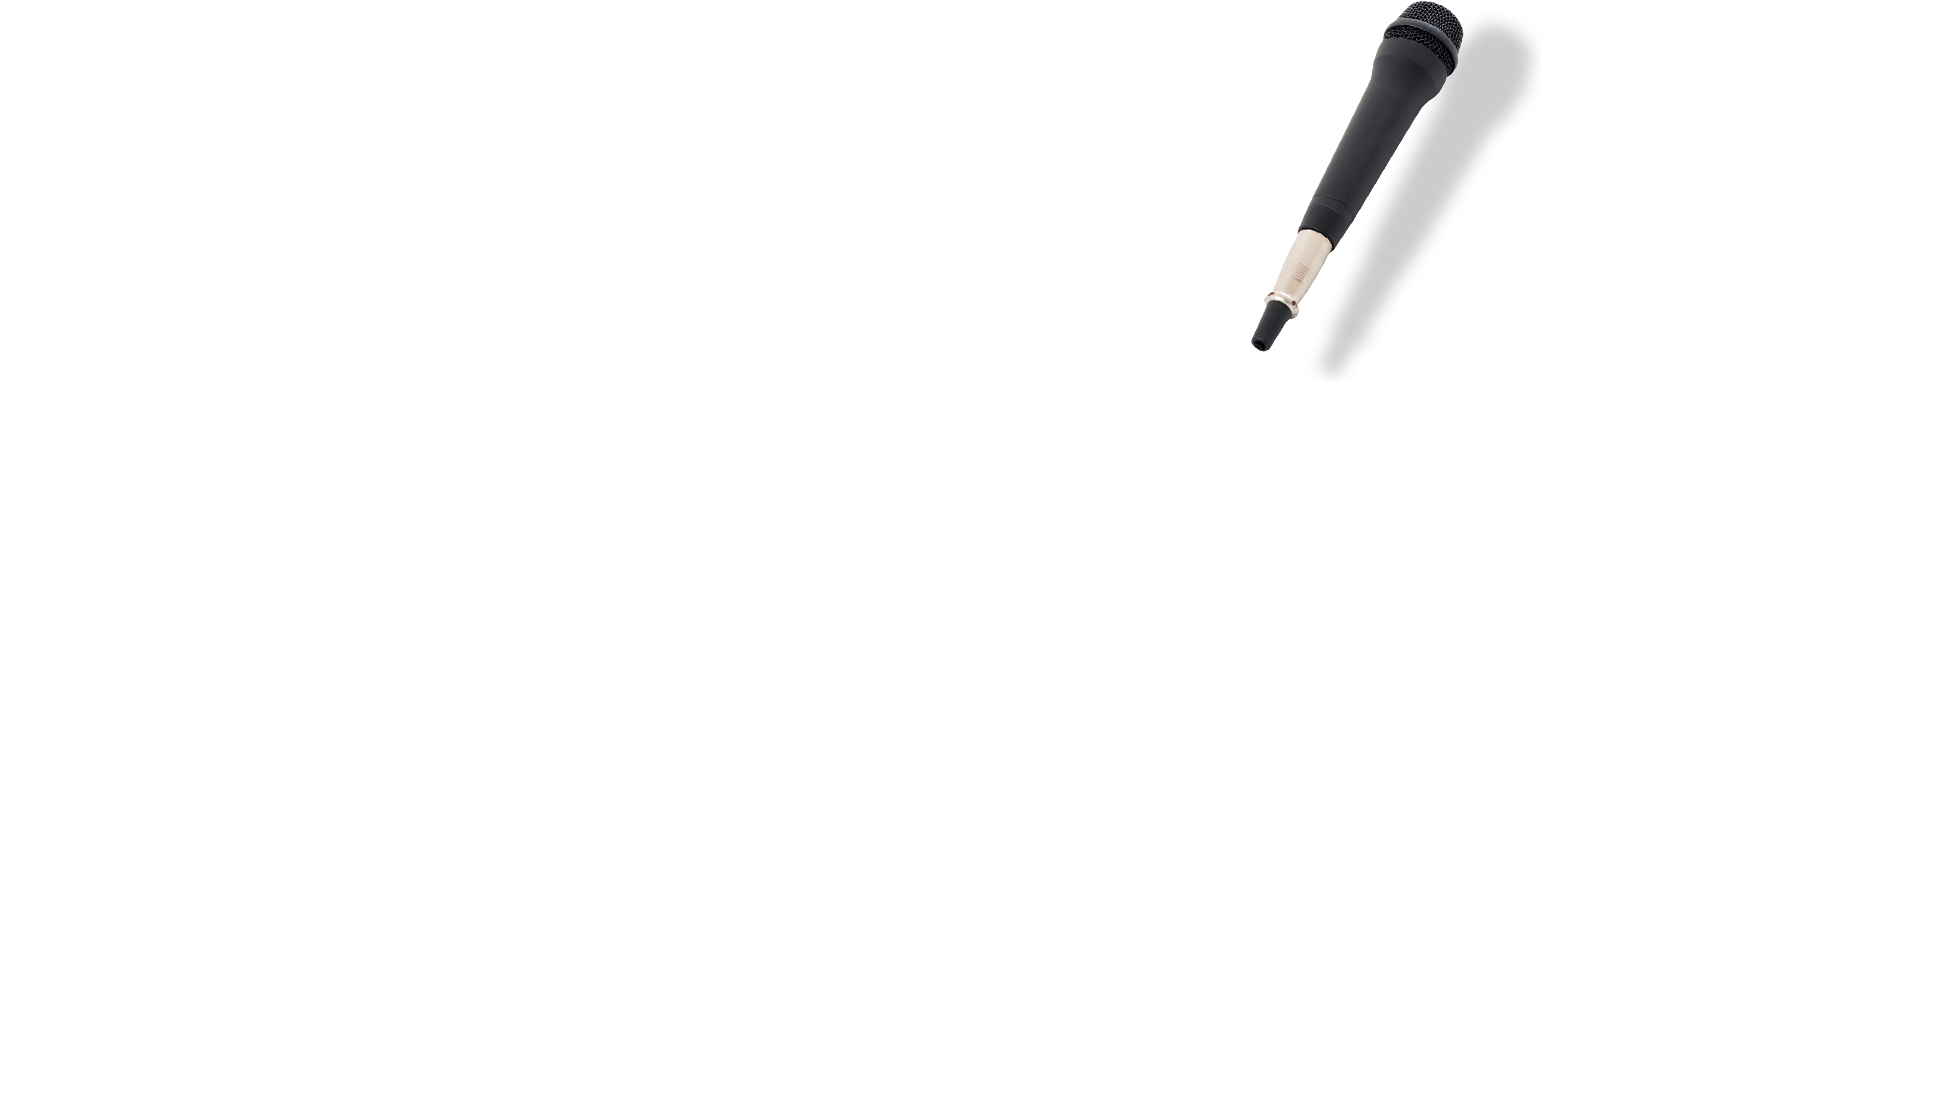
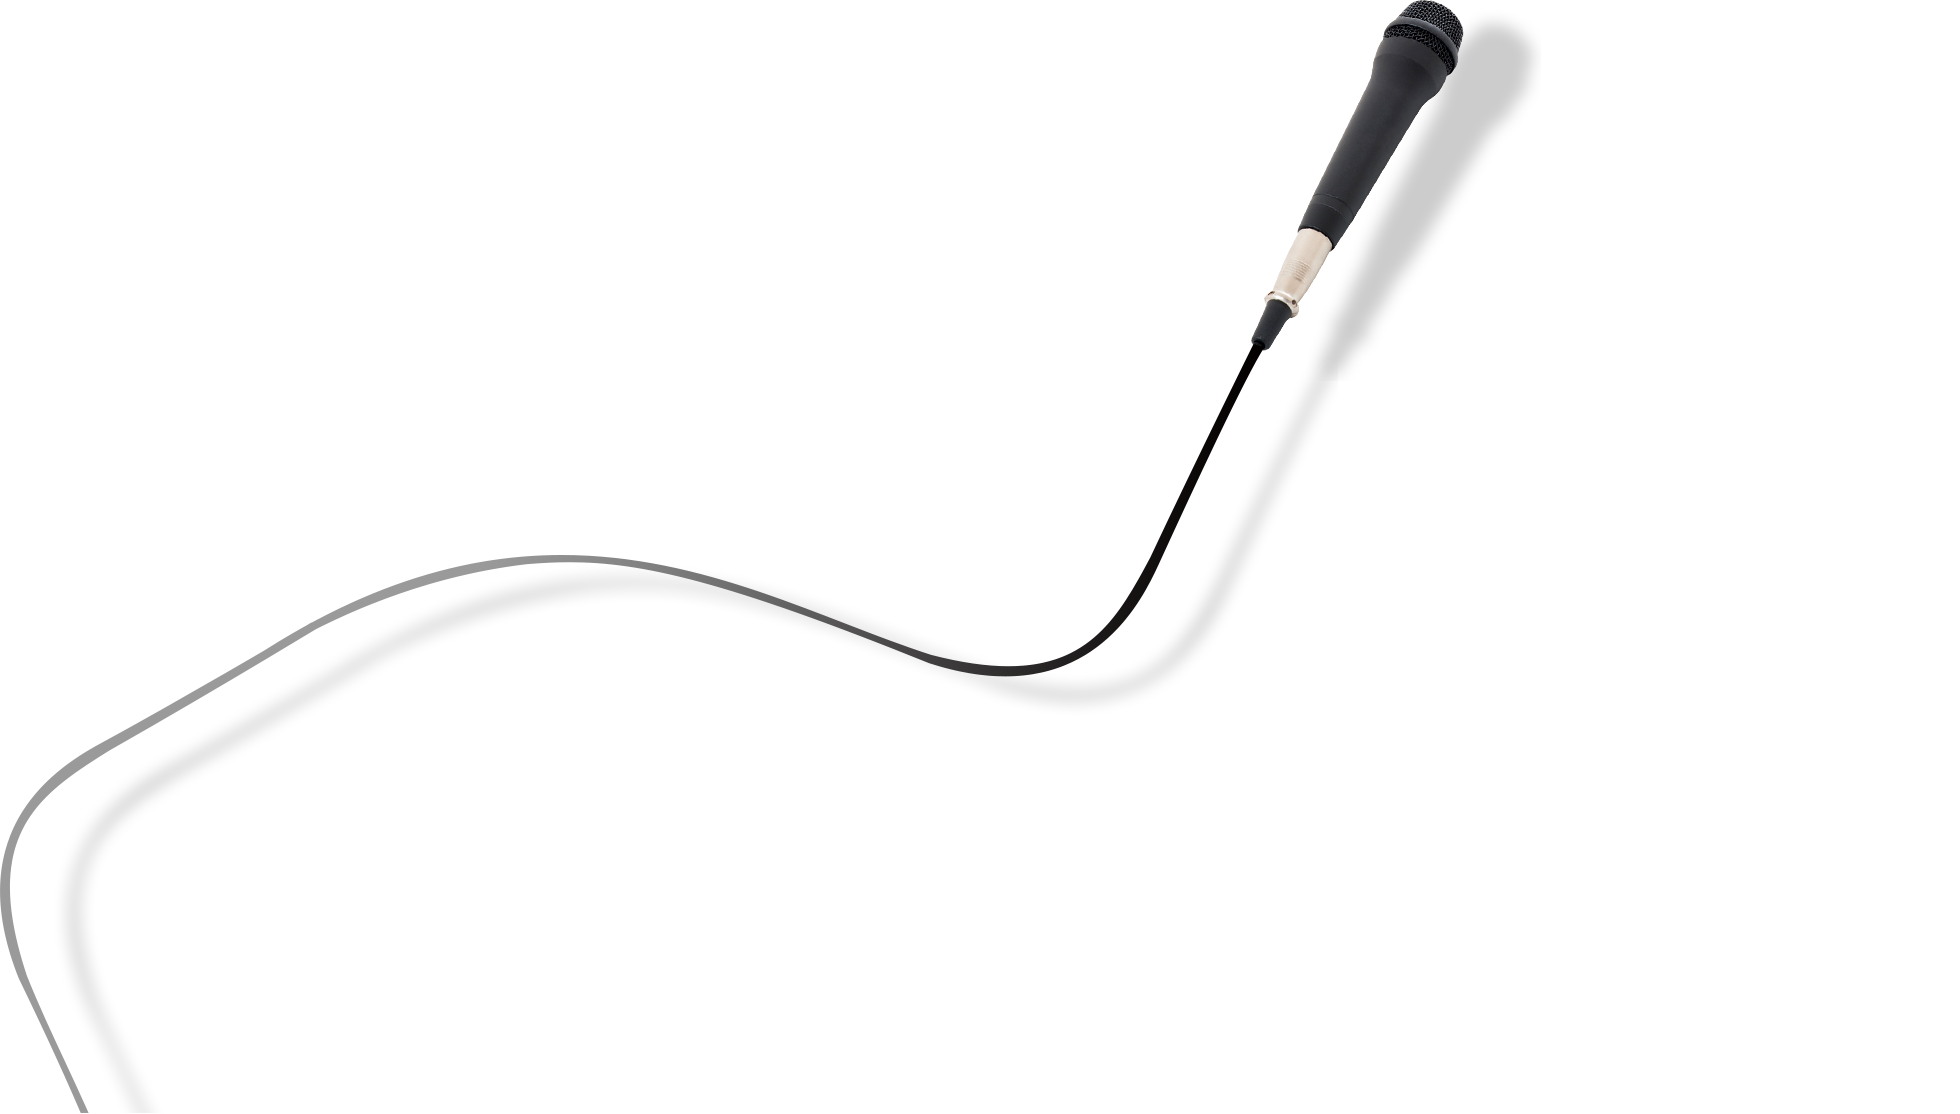
next / report

diff --git a/src/assets/namespace/Home/_Mic.css b/src/assets/namespace/Home/_Mic.css
@@ -24,17 +24,14 @@
   left: 0;
   width: 100%;
   height: 1114px;
-
-  overflow: hidden;
-
-  background: url('/assets/img/home/mic1.png') no-repeat center top;
+  overflow-x: hidden;
 
   /* 全体がちょっと上にあがるアニメーション */
   transition: all .6s ease;
   transform: translateY(-30px);
   opacity: 0;
   &.home-Mic_Animate {
-    transform: translateY(-71px);
+    transform: translateY(-82px);
     opacity: 1;
   }
 }
@@ -43,10 +40,10 @@
 .home-MicCode1 {
   position: absolute;
   top: 0;
-  right: calc(50% - 980px);
-  width: 620px;
+  right: calc(50% - 780px);
+  width: 710px;
   height: 1114px;
-  background: url('/assets/img/home/mic2.png') no-repeat right top;
+  background: url('/assets/img/home/mic1.png') no-repeat right top;
 
   transition: all .5s ease;
   @nest .home-Mic_Animate & {
@@ -58,10 +55,10 @@
 .home-MicCode2 {
   position: absolute;
   top: 0;
-  left: calc(50% - 980px);
+  left: calc(50% - 1180px);
   width: 0;
   height: 1114px;
-  background: url('/assets/img/home/mic3.png') no-repeat left top;
+  background: url('/assets/img/home/mic2.png') no-repeat left top;
   opacity: 0;
 
   transition: all .6s ease .6s;

diff --git a/src/assets/namespace/home/_Next.css b/src/assets/namespace/home/_Next.css
@@ -1,6 +1,5 @@
 .home-Next {
   display: flex;
-  flex-wrap:wrap;
   text-align: center;
   align-items: center;
 
@@ -9,12 +8,11 @@
   }
 
   & > * {
-    flex: 1;
-    @media (--sm-down) {
-      min-height: calc(100vw * 500 / 650);
-    }
+    width: 100%;
+    min-height: 290px;
+
     @media (--sm-up) {
-      min-height: 30vw;
+      max-width: 50%;
     }
   }
 }
@@ -22,10 +20,22 @@
 .home-Next_Body {
   color: var(--background-color);
   font-size: .95rem;
+  @media (--sm-up) {
+    font-size: .8rem;
+  }
+  @media (--lg-up) {
+    font-size: 1.2vw;
+  }
 }
 
 .home-Next_Heading.sw-Heading {
   font-size: 1.8rem;
+  font-weight: 200;
+  padding-top: 30px;
+
+  @media (--lg-up) {
+    font-size: 3vw;
+  }
 }
 
 .home-Next_DetailButton {
@@ -42,6 +52,10 @@
   letter-spacing: 2px;
   line-height: 1;
   margin-bottom: .3em;
+
+  @media (--lg-up) {
+    font-size: 4.3vw;
+  }
 }
 
 .home-Next_EyeCatch {
@@ -51,6 +65,7 @@
   position: relative;
   overflow: hidden;
   width: 100%;
+  height: 37.5vw;
 }
 
 .home-Next_EyeCatch:after {

diff --git a/src/assets/namespace/home/_Report.css b/src/assets/namespace/home/_Report.css
@@ -1,6 +1,5 @@
 .home-Report {
   display: flex;
-  flex-wrap:wrap;
   text-align: center;
   align-items: center;
 
@@ -10,11 +9,11 @@
   }
 
   & > * {
-    flex: 1;
     width: 100%;
-    min-height: calc(100vw * 500 / 650);
+    min-height: 290px;
+
     @media (--sm-up) {
-      min-height: 30vw;
+      max-width: 50%;
     }
   }
 }
@@ -22,16 +21,30 @@
 .home-Report_Body {
   color: var(--background-color);
   font-size: .95rem;
+  padding-top: 30px;
+
+  @media (--sm-up) {
+    padding-top: 0;
+  }
+  @media (--lg-up) {
+    font-size: 1.1vw;
+  }
 }
 
 .home-Report_Body .sw-Heading {
   font-size: 2.7rem;
+  padding-top: 30px;
+
+  @media (--lg-up) {
+    font-size: 3.8vw;
+  }
 }
 
 .home-Report_EyeCatch {
   position: relative;
   overflow: hidden;
   background-color: inherit;
+  height: 37.5vw;
 }
 
 .home-Report_EyeCatch img {

diff --git a/src/assets/js/util/DesignView.js b/src/assets/js/util/DesignView.js
@@ -5,7 +5,7 @@ export default () => {
     return false;
   }
 
-  $('body').toggleClass('home-DesignView', false);
+  $('body').toggleClass('home-DesignView', true);
 
   $(window).keydown((e) => {
     if (e.keyCode === 49) {

diff --git a/src/assets/namespace/home/_About.css b/src/assets/namespace/home/_About.css
@@ -1,7 +1,10 @@
 .home-About {
   text-align: center;
   position: relative;
-  padding-bottom: 180px;
+  padding-bottom: 140px;
+  @media (--sm-up) {
+    padding-bottom: 180px;
+  }
 
   &:before {
     content: '';

diff --git a/src/assets/js/Home/Mic.js b/src/assets/js/Home/Mic.js
@@ -2,7 +2,7 @@
 
 export default () => {
 
-  const mic_offset_top = $('.home-Mic').offset().top + 400;
+  const mic_offset_top = $('.home-Mic').offset().top + 500;
 
   $(window).on({
     'scroll': () => {

diff --git a/src/assets/css/globalCSS/_setting.css b/src/assets/css/globalCSS/_setting.css
@@ -10,6 +10,6 @@
   --color-animate-1: #f382ad;
   --color-animate-2: #36b1dd;
 
-  --font-weight--normal: 200;
+  --font-weight--normal: 400;
   --font-weight--bold: 600;
 }
